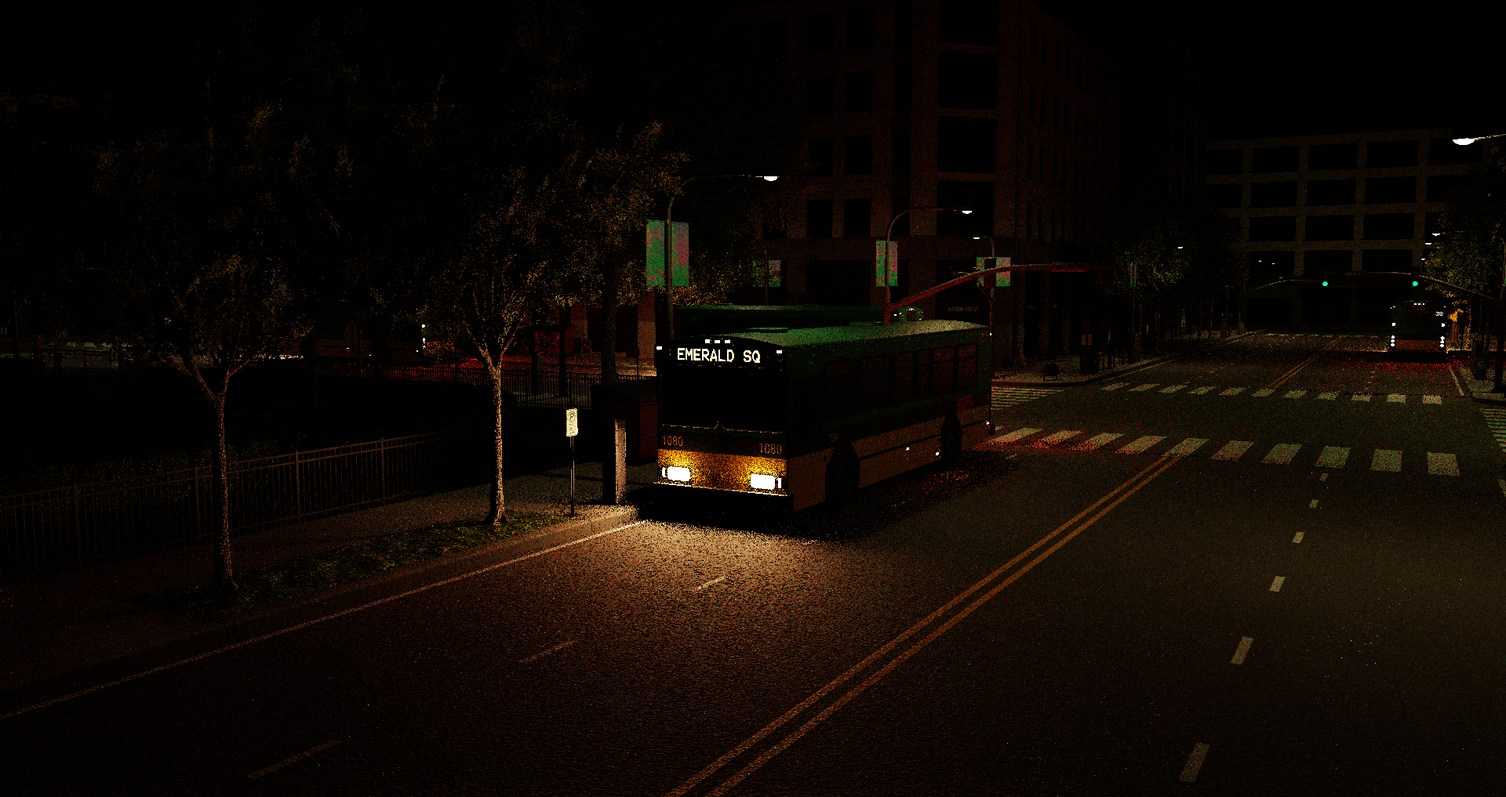
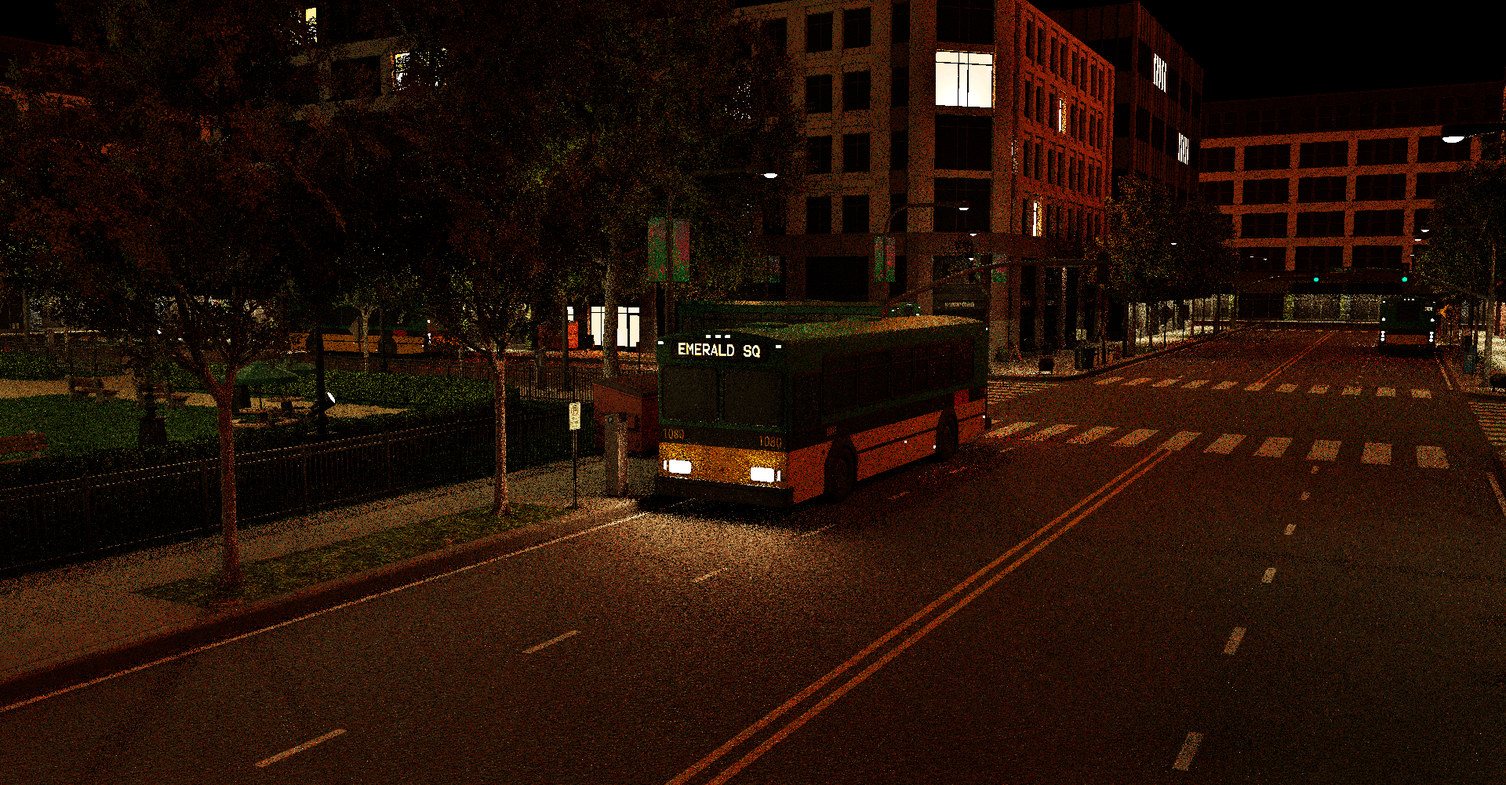
fix creating DI samples

diff --git a/Source/Mogwai/Data/measurements/captured_frames/EmeraldSquare_frame_capture.py b/Source/Mogwai/Data/measurements/captured_frames/EmeraldSquare_frame_capture.py
@@ -1,8 +1,8 @@
 # Load render graph
-m.script('..\\..\\..\\..\\Source\\Mogwai\\Data\\ReSTIR_10exp.py')
+m.script('..\\..\\..\\..\\Source\\Mogwai\\Data\\ReSTIR_7exp.py')
 
 # Load scene
-m.loadScene('..\\..\\..\\..\\media\\TestScenes\\EmeraldSquare_v4_1\\EmeraldSquare_v4_1\\EmeraldSquare_Day.pyscene', buildFlags=SceneBuilderFlags.Default)
+m.loadScene('..\\..\\..\\..\\media\\TestScenes\\EmeraldSquare_v4_1\\EmeraldSquare_v4_1\\EmeraldSquare_Dusk.pyscene', buildFlags=SceneBuilderFlags.Default)
 
 # Disable animations
 m.scene.animated = False
